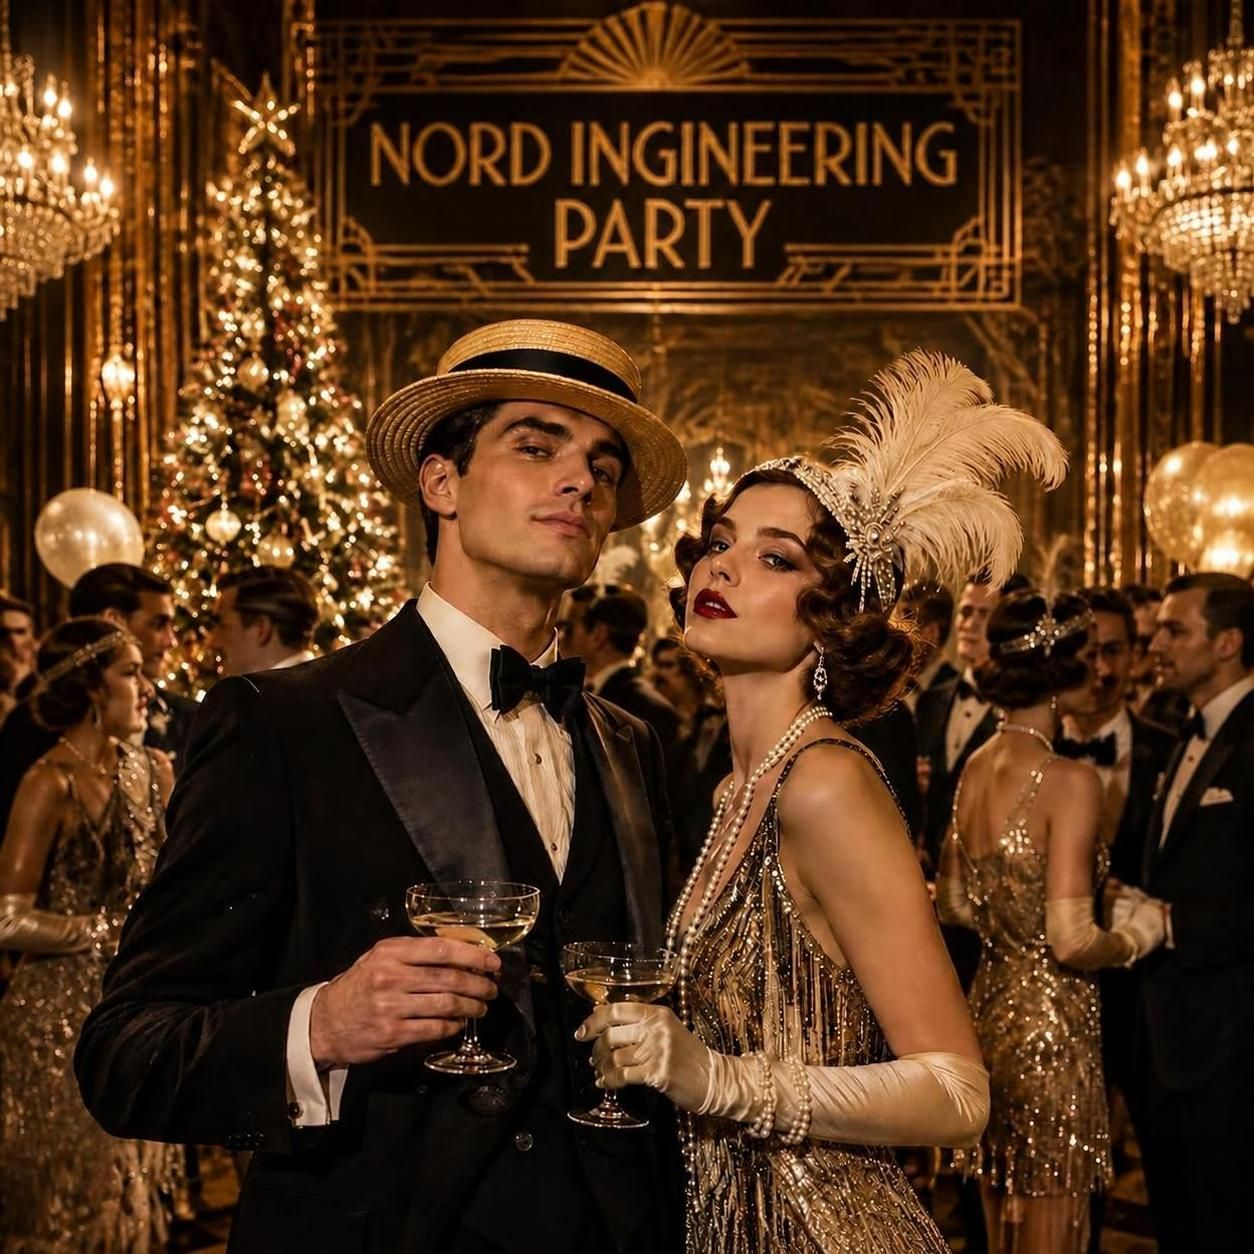
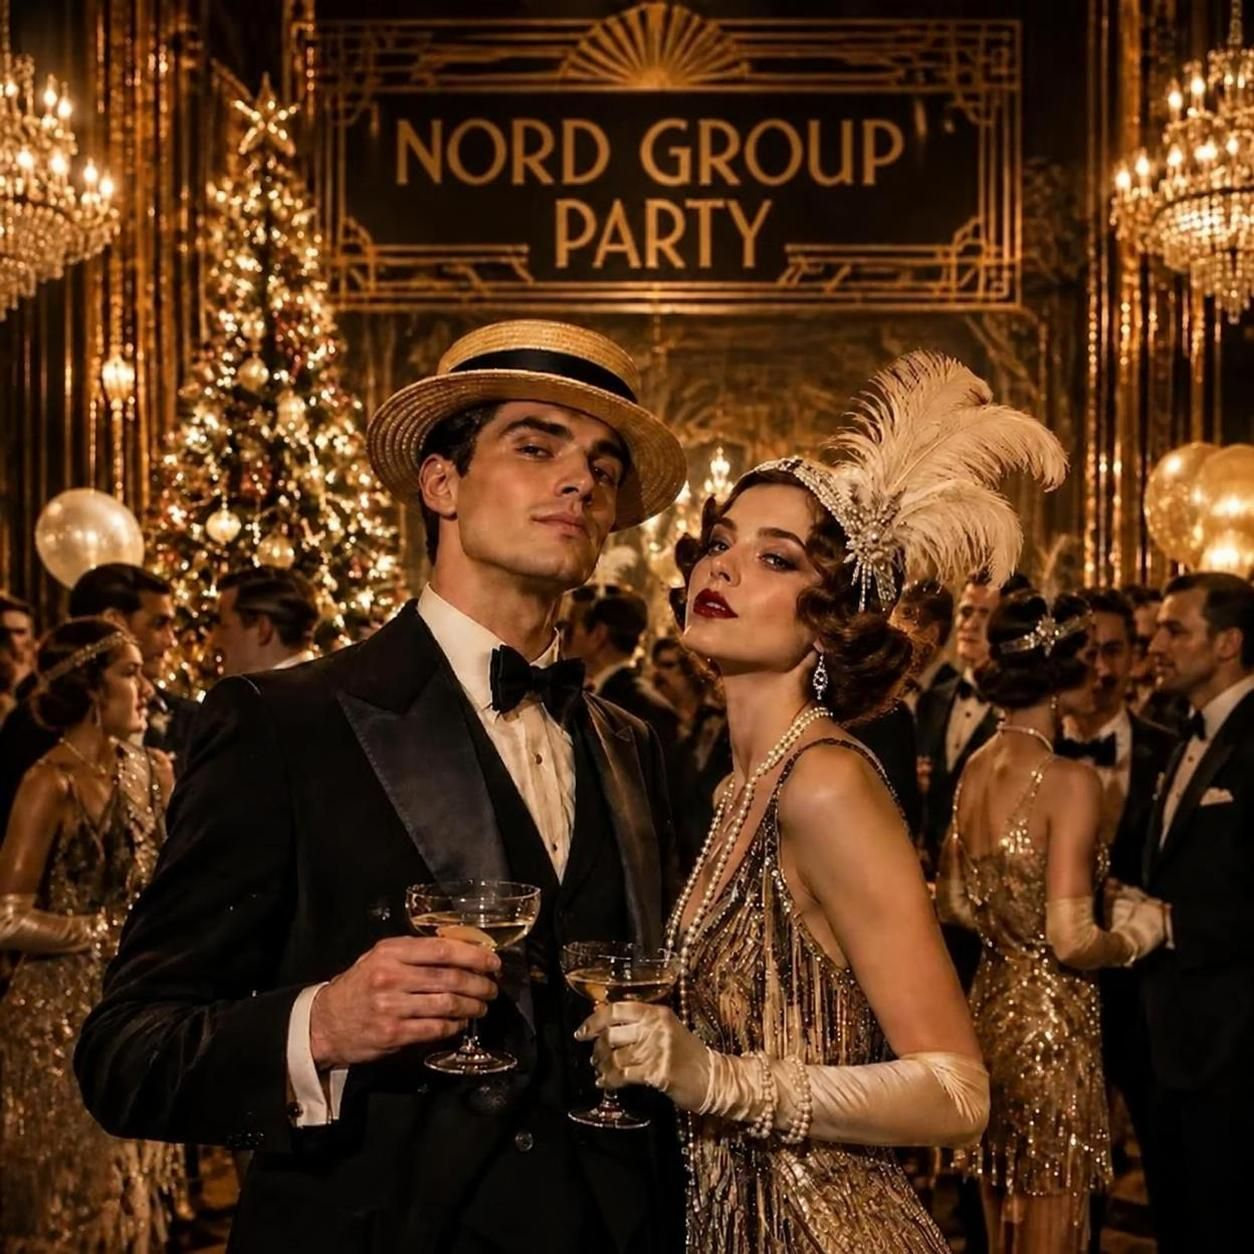
Обновлен бренд на Nord Group, добавлены логотип и фото в блоки призов и рассадки

diff --git a/index.html b/index.html
@@ -3,8 +3,8 @@
 <head>
   <meta charset="UTF-8">
   <meta name="viewport" content="width=device-width, initial-scale=1.0">
-  <meta name="description" content="Новогоднее приглашение Nord Engineering — корпоратив «Бурлеск», 19 декабря 2026">
-  <title>Nord Engineering — Новогодний корпоратив «Бурлеск»</title>
+  <meta name="description" content="Новогоднее приглашение Nord Group — корпоратив «Бурлеск», 19 декабря 2026">
+  <title>Nord Group — Новогодний корпоратив «Бурлеск»</title>
   <link rel="preconnect" href="https://fonts.googleapis.com">
   <link rel="preconnect" href="https://fonts.gstatic.com" crossorigin>
   <!-- Poiret One — аутентичный геометрический шрифт эпохи Ар-деко 1930-х годов для всей страницы; Oswald — для бродвейской 3D-вывески БУРЛЕСК -->
@@ -549,6 +549,9 @@
     }
 
     .brand {
+      display: flex;
+      align-items: center;
+      gap: 12px;
       font-family: var(--font-30s);
       font-size: 20px;
       letter-spacing: 4px;
@@ -556,6 +559,15 @@
       color: var(--gold-light);
       -webkit-text-stroke: 0.55px var(--gold-light);
       text-shadow: 0 0 14px rgba(212, 175, 55, 0.35);
+    }
+
+    .brand-logo {
+      height: 34px;
+      width: auto;
+      display: block;
+      object-fit: contain;
+      flex-shrink: 0;
+      filter: drop-shadow(0 0 8px rgba(255, 255, 255, 0.25));
     }
 
     .brand span { color: var(--cream); -webkit-text-stroke: 0.35px var(--cream); }
@@ -1248,7 +1260,7 @@
       z-index: 2;
     }
 
-    /* ===== ГОЛОСОВАНИЕ ===== */
+    /* ===== ГОЛОСОВАНИЕ (ВАШИ ПРИЗЫ ЖДУТ ВАС) ===== */
     .voting-block {
       margin-top: 40px;
       padding: 42px 28px;
@@ -1262,32 +1274,22 @@
       color: var(--gold-light);
       letter-spacing: 3.5px;
       text-transform: uppercase;
-      margin-bottom: 12px;
+      margin-bottom: 20px;
       -webkit-text-stroke: 0.55px var(--gold-light);
       position: relative;
       z-index: 2;
     }
 
-    .voting-placeholder {
-      font-family: var(--font-30s);
-      color: var(--gold);
-      font-size: 20px;
-      letter-spacing: 2px;
-      margin: 16px 0;
+    .voting-gift-img {
+      max-width: 440px;
+      width: 100%;
+      height: auto;
+      border-radius: 4px;
+      display: block;
+      margin: 0 auto;
       position: relative;
       z-index: 2;
-    }
-
-    .voting-note {
-      font-family: var(--font-30s);
-      font-size: 15px;
-      color: var(--muted);
-      max-width: 640px;
-      margin: 12px auto 0;
-      line-height: 1.75;
-      letter-spacing: 1.2px;
-      position: relative;
-      z-index: 2;
+      box-shadow: 0 12px 32px rgba(0, 0, 0, 0.8);
     }
 
     /* ===== ФОРМА ===== */
@@ -1837,13 +1839,22 @@
     }
 
     .footer-brand {
+      display: inline-flex;
+      align-items: center;
+      justify-content: center;
+      gap: 12px;
       font-family: var(--font-30s);
       color: var(--gold-light);
       font-size: 20px;
       letter-spacing: 5px;
       text-transform: uppercase;
-      margin-bottom: 8px;
+      margin-bottom: 10px;
       -webkit-text-stroke: 0.5px var(--gold-light);
+    }
+
+    .footer-brand span {
+      color: var(--cream);
+      -webkit-text-stroke: 0.35px var(--cream);
     }
 
     /* ===== АДАПТИВНОСТЬ ===== */
@@ -1999,7 +2010,13 @@
   <!-- ===== НАВИГАЦИЯ ===== -->
   <nav class="site-nav" aria-label="Основная навигация">
     <div class="site-nav-inner">
-      <div class="brand">Nord <span>Engineering</span></div>
+      <div class="brand">
+        <img class="brand-logo"
+             src="./logo.img.png"
+             onerror="if(!this.dataset.ext){this.dataset.ext='img';this.src='./logo.img';}else if(this.dataset.ext==='img'){this.dataset.ext='png';this.src='./logo.png';}"
+             alt="Логотип Nord Group">
+        <div>Nord <span>Group</span></div>
+      </div>
       <ul class="nav-links">
         <li><a href="#event">Событие</a></li>
         <li><a href="#countdown">Таймер</a></li>
@@ -2128,7 +2145,7 @@
         </span>
         <span class="or">или</span>
         <span class="happy-new-year">С Новым годом,</span>
-        <span class="company">Норд Инжиниринг!</span>
+        <span class="company">Nord Group !!!</span>
       </h1>
 
       <div class="ornament" aria-hidden="true">
@@ -2186,7 +2203,7 @@
       <div class="featured-photo-frame">
         <img src="./Duck-ai-image-2026-10-22-10-52.jpeg"
              onerror="this.onerror=null;this.src='https://z-cdn-media.chatglm.cn/files/4162052f-4779-4011-bbb1-722d5d42b878.jpeg?auth_key=1893097800-3033b4c13a61471d94573187873d4a80-0-0f094d2a6218a3cc5b55dbfcd8f729e0';"
-             alt="Пара в стиле Великого Гэтсби с бокалами шампанского на фоне вывески Nord Engineering Party и новогодней ёлки">
+             alt="Пара в стиле Великого Гэтсби с бокалами шампанского на фоне вывески Nord Group Party и новогодней ёлки">
       </div>
     </div>
 
@@ -2199,7 +2216,7 @@
 
       <div class="invitation-text">
         <p class="greeting">Дорогие коллеги!</p>
-        <p>Приглашаем вас на главное событие уходящего года — новогодний корпоративный вечер <em>«Бурлеск, или С Новым годом, Норд Инжиниринг!»</em></p>
+        <p>Приглашаем вас на главное событие уходящего года — новогодний корпоративный вечер <em>«Бурлеск, или С Новым годом, Nord Group !!!»</em></p>
         <p>Вы, конечно, спросите: <span class="quote">«Что такое бурлеск?»</span></p>
         <p>Бурлеск — это шоу, где блеск сочетается с иронией, а искромётный юмор — с ослепительными нарядами.</p>
         <p>Пришло время окунуться в атмосферу праздника, где всё сверкает, искрится и удивляет!</p>
@@ -2274,7 +2291,7 @@
       <div class="dress-code">
         <p class="section-subtitle">Дресс-код</p>
         <h2 class="dress-code-title">Новогодний шик и блеск</h2>
-        <p class="dress-code-desc">Приветствуются праздничные, эффектные и блестящие образы в духе «Острых козырьков» и Бурлеска.</p>
+        <p class="dress-code-desc">Приветствуются праздничные, эффектные и блестящие образы в духе «Острых козырьков » и Бурлеска.</p>
         
         <div class="dress-gallery">
           <div class="gallery-item">
@@ -2284,10 +2301,12 @@
             <img src="https://z-cdn-media.chatglm.cn/files/a7a833b6-b41c-4c1c-a30c-e981b84307fe.jpg?auth_key=1893097800-1da0fc58f40243bb8d8d72462411b85c-0-8d5834d69675ec07cdfa538947f4daa1" alt="Женщина в шести ретро-образах 1920-х годов с разными шляпками и вуалями">
           </div>
           <div class="gallery-item">
-            <img src="https://z-cdn-media.chatglm.cn/files/4162052f-4779-4011-bbb1-722d5d42b878.jpeg?auth_key=1893097800-3033b4c13a61471d94573187873d4a80-0-0f094d2a6218a3cc5b55dbfcd8f729e0" alt="Пара в стиле Гэтсби на фоне с надписью Nord Engineering Party">
+            <img src="./Duck-ai-image-2026-10-22-10-52.jpeg"
+                 onerror="if(!this.dataset.ext){this.dataset.ext='jpg';this.src='./Duck-ai-image-2026-10-22-10-52.jpg';}else if(this.dataset.ext==='jpg'){this.dataset.ext='png';this.src='./Duck-ai-image-2026-10-22-10-52.png';}"
+                 alt="Пара в стиле Великого Гэтсби с бокалами шампанского на фоне вывески Nord Group Party и новогодней ёлки">
           </div>
           <div class="gallery-item">
-            <img src="https://z-cdn-media.chatglm.cn/files/2f4ea584-3582-4fd4-aea4-33693fcde5d1.jpeg?auth_key=1893097800-02e7a6b7af4544c6a6ac3c38701a5b9b-0-3372fa3904aa6e51df407b83abb1d6f4" alt="Четверо гостей в стиле Гэтсби на вечеринке Nord Engineering Party">
+            <img src="https://z-cdn-media.chatglm.cn/files/2f4ea584-3582-4fd4-aea4-33693fcde5d1.jpeg?auth_key=1893097800-02e7a6b7af4544c6a6ac3c38701a5b9b-0-3372fa3904aa6e51df407b83abb1d6f4" alt="Четверо гостей в стиле Гэтсби на вечеринке Nord Group Party">
           </div>
           <div class="gallery-item">
             <img src="./Без названия (78).jpeg" alt="Пара в стиле Великого Гэтсби в новогодней атмосфере с ретро-часами">
@@ -2301,7 +2320,7 @@
 
     <!-- ===== КОНКУРС ===== -->
     <section id="contest">
-      <h2 class="section-title">Конкурс «Лучший головной убор»</h2>
+      <h2 class="section-title">Конкурс на лучший тематисеский образ </h2>
       <div class="ornament" aria-hidden="true">
         <span class="ornament-symbol">✦</span>
       </div>
@@ -2319,20 +2338,18 @@
             <div class="category-prize">призовой фонд <strong>50 000 ₽</strong></div>
           </div>
           <div class="category-card special">
-            <div class="category-name">Специальные призы</div>
-            <div class="category-prize">призовой фонд <strong>50 000 ₽</strong></div>
+            <div class="category-name">Призы за лучший головной убор </div>
+            <div class="category-prize"> <strong></strong></div>
             <p class="category-special-note">Вручаются за наиболее оригинальную, креативную или запоминающуюся работу по решению руководства</p>
           </div>
         </div>
 
         <div class="voting-block">
-          <h3>Голосование</h3>
-          <p class="voting-placeholder">Участники конкурса и голосование появятся позже</p>
-          <p class="voting-note">
-            Голосование доступно только по номинациям «Женский образ» и «Мужской образ».
-            Победителя в номинации «Специальный приз» определяет руководство.
-            Текущая версия голосования не работает — для настоящего голосования потребуется серверная часть.
-          </p>
+          <h3>Ваши призы ждут вас</h3>
+          <img class="voting-gift-img"
+               src="./logogift.img.jpeg"
+               onerror="if(!this.dataset.ext){this.dataset.ext='img';this.src='./logogift.img';}else if(this.dataset.ext==='img'){this.dataset.ext='imgjpg';this.src='./logogift.img.jpg';}else if(this.dataset.ext==='imgjpg'){this.dataset.ext='imgpng';this.src='./logogift.img.png';}else if(this.dataset.ext==='imgpng'){this.dataset.ext='jpeg';this.src='./logogift.jpeg';}"
+               alt="Подарок Nord Group на серебряном подносе">
         </div>
       </div>
     </section>
@@ -2412,12 +2429,23 @@
       <div class="ticket-block" role="status" aria-live="polite">
         <div class="ticket-title">План зала и столов</div>
         <p class="ticket-message">Информация о рассадке гостей появится позже.</p>
+        <img class="voting-gift-img"
+             style="margin-top: 24px;"
+             src="./nord.img.jpeg"
+             onerror="if(!this.dataset.ext){this.dataset.ext='img';this.src='./nord.img';}else if(this.dataset.ext==='img'){this.dataset.ext='imgjpg';this.src='./nord.img.jpg';}else if(this.dataset.ext==='imgjpg'){this.dataset.ext='imgpng';this.src='./nord.img.png';}else if(this.dataset.ext==='imgpng'){this.dataset.ext='jpeg';this.src='./nord.jpeg';}"
+             alt="Праздничная сервировка стола с логотипом Nord Group">
       </div>
     </section>
   </main>
 
   <footer>
-    <div class="footer-brand">Nord Engineering</div>
+    <div class="footer-brand">
+      <img class="brand-logo"
+           src="./logo.img.png"
+           onerror="if(!this.dataset.ext){this.dataset.ext='img';this.src='./logo.img';}else if(this.dataset.ext==='img'){this.dataset.ext='png';this.src='./logo.png';}"
+           alt="Логотип Nord Group">
+      <div>Nord <span>Group</span></div>
+    </div>
     <p>Новогодний корпоратив «Бурлеск» · 19 декабря 2026</p>
   </footer>
 
@@ -2429,7 +2457,7 @@
         <button type="button" class="consent-modal-close" id="closeConsentModal" aria-label="Закрыть окно">&times;</button>
       </div>
       <div class="consent-modal-body">
-        <p>Настоящим я, заполняя форму подтверждения участия на сайте новогоднего корпоративного мероприятия компании «Норд Инжиниринг» (Nord Engineering), свободно, своей волей и в своем интересе даю согласие в соответствии с Федеральным законом № 152-ФЗ «О персональных данных» на обработку моих персональных данных.</p>
+        <p>Настоящим я, заполняя форму подтверждения участия на сайте новогоднего корпоративного мероприятия компании «Норд Групп» (Nord Group), свободно, своей волей и в своем интересе даю согласие в соответствии с Федеральным законом № 152-ФЗ «О персональных данных» на обработку моих персональных данных.</p>
         <p>Перечень персональных данных, на обработку которых дается согласие:</p>
         <ul>
           <li>имя и фамилия;</li>
